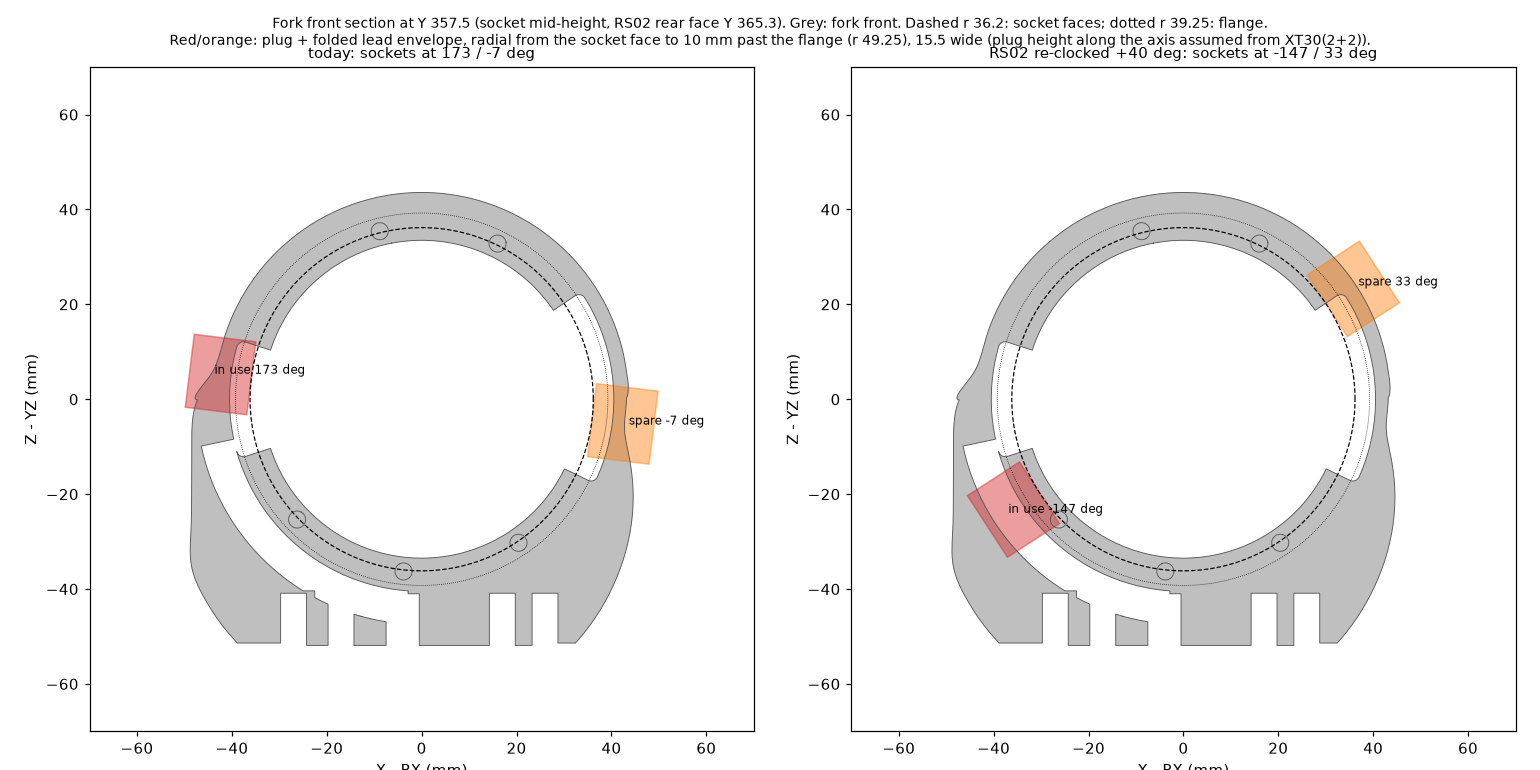
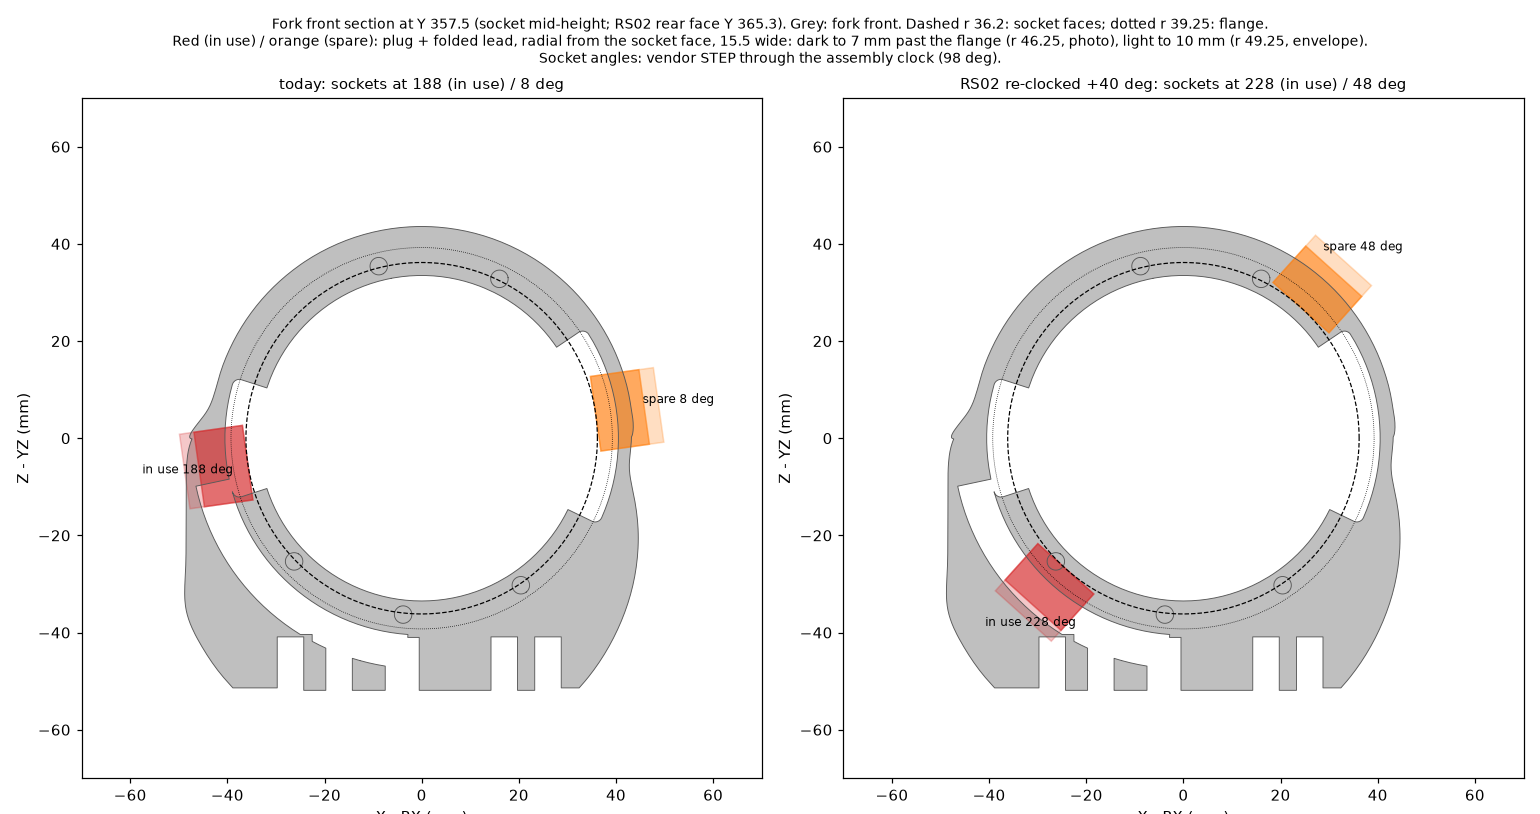
Plug pocket: the sockets are at 188 / 8 deg (assembly clock), section redrawn with both lead envelopes

Changed region(s): [[0.0, 0.0, 0.9974, 1.0], [0.5922, 0.2494, 0.9351, 0.8727]]

diff --git a/hardware/shoulder/study-20261111/cad-pass1/look-options/plug_pocket/README.md b/hardware/shoulder/study-20261111/cad-pass1/look-options/plug_pocket/README.md
@@ -179,7 +179,9 @@ off the rear face. Everything above that assumes a plug pushed down onto the rea
 variant a2) is superseded.
 
 **The vendor STEP agrees, and so does our RS02 model.** I re-read the faces of `cad/vendor/robstride/vendor_robstride_rs02.step`:
-- **Two sockets, 180° apart:** at 173° and −7° in our frame (±90° in the vendor's).
+- **Two sockets, 180° apart:** at **188° (the one in use, where the socket tap starts) and 8°** in our frame. That is the
+  vendor's ±90° through the assembly's 98° clock (`build_asm.T_RS02`). The 173° / −7° used earlier in this file were
+  mirrored.
 - **Mating face:** r 36.17, facing radially outward, about 15.5 mm around the rim by 5.2 mm along the axis. The pins run
   radially.
 - **Height:** Y 354.9-360.1, that is 5.2-10.4 mm below the RS02 rear face (Y 365.26), in the side of the rear cover.
@@ -193,16 +195,18 @@ variant a2) is superseded.
 
 **Where it fits:** see the section at the socket's mid-height (Y 357.5), today and re-clocked:
 ![section](section_radial_plug_Y357.png)
-- **Today's clocking (sockets 173 / −7°):** the cuff skin there is only r 42-44.9, so the envelope breaks through the outer
-  skin at 173°. Either option, the plug pulled out in place or fitted before the motor goes in, needs a hole in the
-  visible cuff.
-- **RS02 re-clocked +40° (sockets −147 / 33°): recommended.**
-  - At −147° the skin is at r 55-61, and the in-use socket lands on the existing socket-tap channel (r 40.5-47.5, from
-    about −168° to the back cavity).
+- **Today's clocking (sockets 188 / 8°):** the in-use socket sits where the socket tap (r 40.5-47.5) starts, and the cuff
+  skin there is at r 47.6-48.5.
+  - The photo's folded lead (7 mm past the flange, r 46.25) just fits inside, leaving a 1-2 mm wall.
+  - The 10 mm design envelope (r 49.25) breaks through the skin.
+  - So today's clocking works only if the real lead folds to 7 mm or less, and the wall there would be thin.
+- **RS02 re-clocked +40° (sockets 228 / 48°): recommended.**
+  - At 228° the socket sits over the middle of the socket tap, and the skin is at r 55-60. Both envelopes stay inside the
+    outline with several mm of wall.
   - The plug and its folded lead stay inside the outline. That needs the seat-ring socket pocket (as today) and about
     2-3 mm into the wall behind the tap, out to about r 50: all internal.
   - **Assembly:** with the fork front on the bench and the fork rear not yet fitted, the back cavity is open. The plug goes
-    on radially in place, and its lead folds into the tap and runs to the back. The spare socket (33°) only needs its
+    on radially in place, and its lead folds into the tap and runs to the back. The spare socket (48°) only needs its
     seat-ring pocket.
   - **Cost:**
     - The fork front's five RS02 screw holes move to the matching five of the nine-position 40° pattern.

diff --git a/hardware/shoulder/study-20261111/cad-pass1/CAD_NOTES.md b/hardware/shoulder/study-20261111/cad-pass1/CAD_NOTES.md
@@ -617,7 +617,7 @@ Pictures of the real parts: [look-options/side_centre/real/](look-options/side_c
 
 ## RS02 power/CAN plug: radial (2026-11-13)
 
-The RS02's two XT30PB(2+2) sockets face sideways: r 36.17, Y 354.9-360.1, at 173° and −7°. The plug mates radially. The
+The RS02's two XT30PB(2+2) sockets face sideways: r 36.17, Y 354.9-360.1, at 188° (in use) and 8°. The plug mates radially. The
 vendor model and our reference are right; the plug-pocket study's earlier "plug mates down onto the rear face" was a misreading.
-Rework in [look-options/plug_pocket](look-options/plug_pocket/README.md): at today's clocking the plug breaks through the cuff
-skin; with the RS02 re-clocked +40° it fits inside the outline along the existing socket tap. Mock-up next; real parts unchanged.
+Rework in [look-options/plug_pocket](look-options/plug_pocket/README.md): at today's clocking only a lead folded to 7 mm fits (1-2 mm wall left);
+with the RS02 re-clocked +40° the 10 mm envelope fits inside the outline, over the middle of the socket tap. Mock-up next; real parts unchanged.
